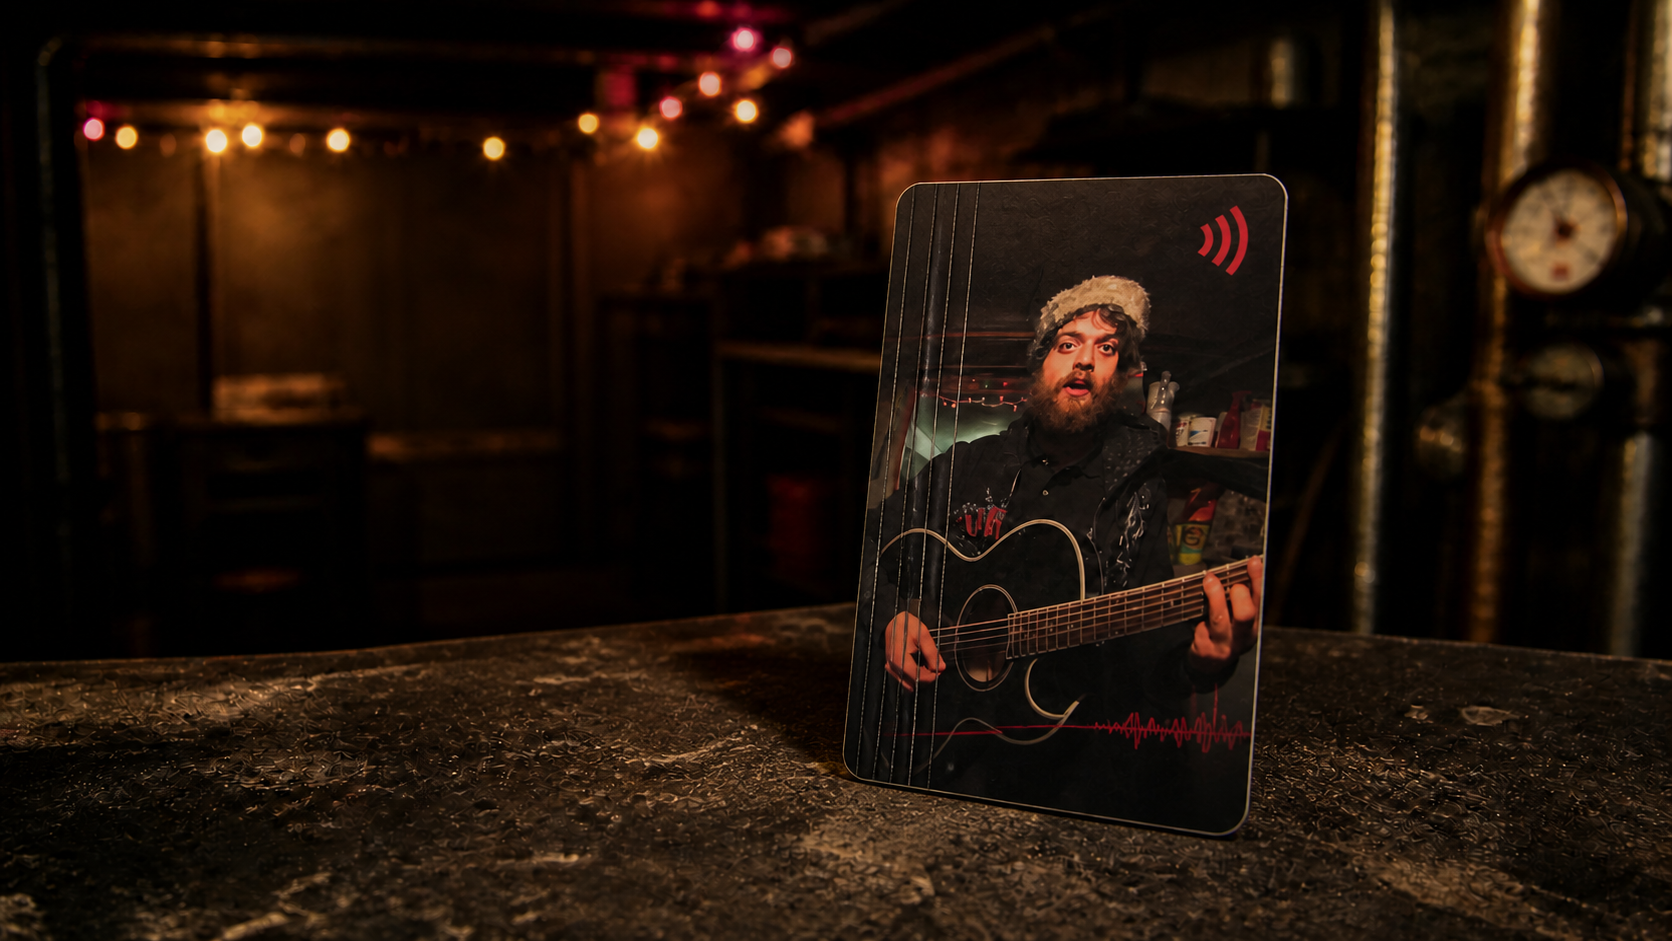
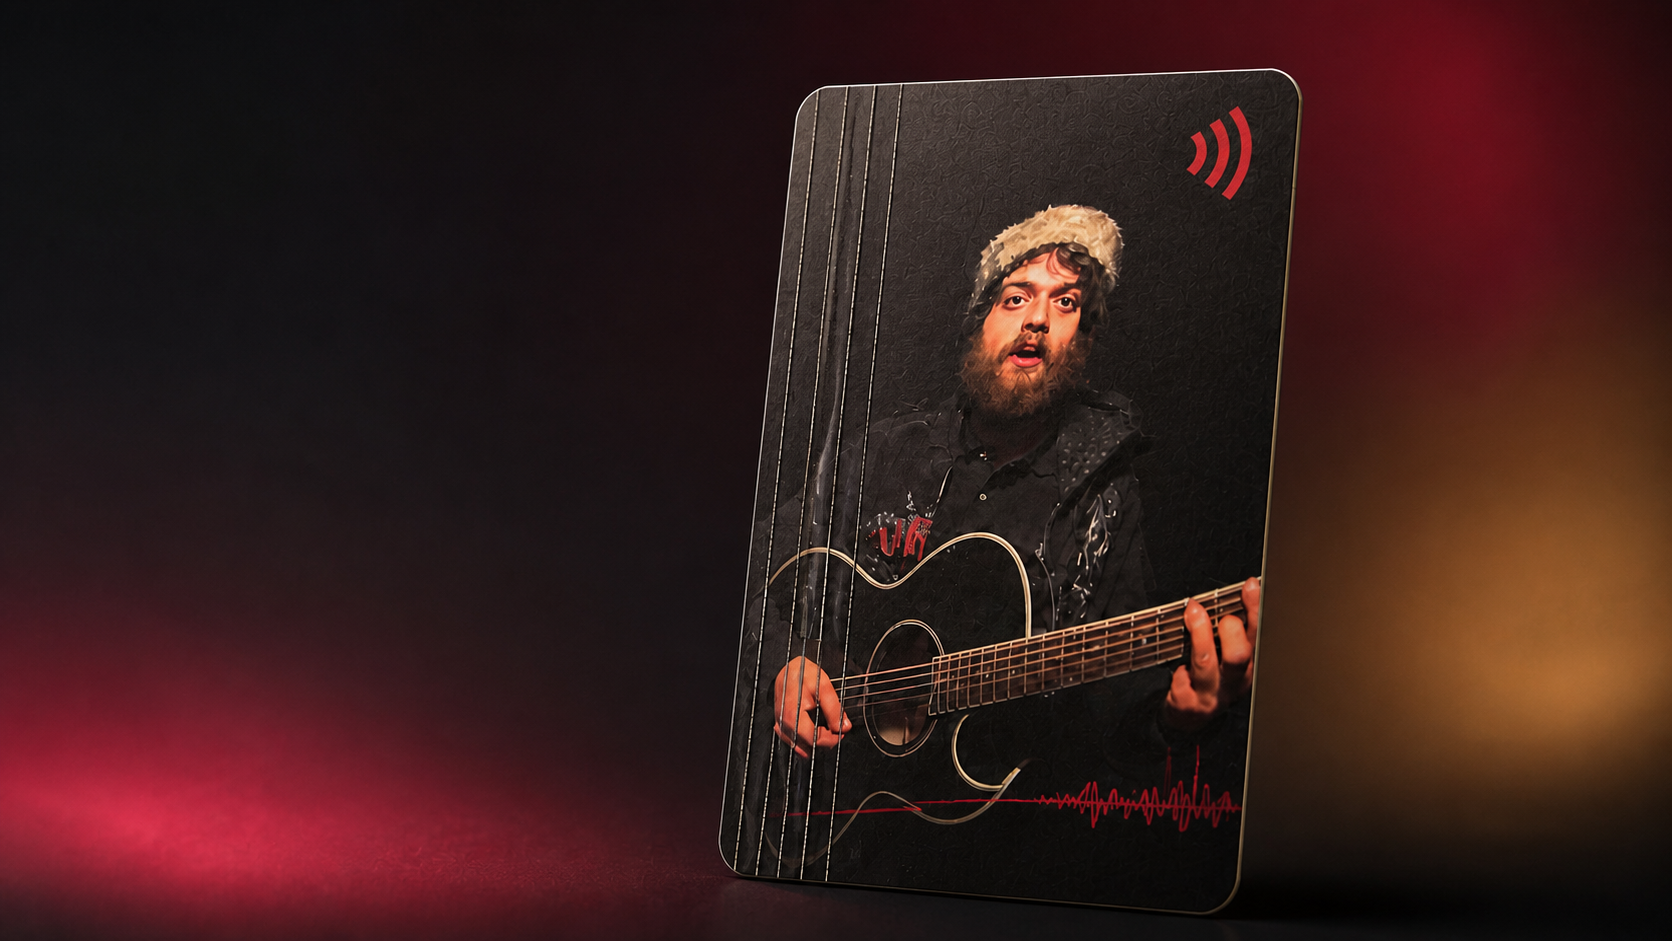
Refine AHOY front door and account entry

diff --git a/index.html b/index.html
@@ -44,6 +44,7 @@
     <link
       href="https://fonts.googleapis.com/css2?family=IBM+Plex+Sans:wght@400;500;600;700&display=swap"
       rel="stylesheet" />
+    <link href="https://fonts.googleapis.com/css2?family=Barlow+Condensed:wght@500;600;700&display=swap" rel="stylesheet" />
     <link href="https://fonts.cdnfonts.com/css/cubano?display=swap"
       rel="stylesheet" />
     <script type="application/ld+json">
@@ -100,6 +101,8 @@
       --pointer-x: 50%;
       --pointer-y: 18%;
       --pointer-glow: 0;
+      --spot-x: 72%;
+      --spot-y: 18%;
       --bg: #010710;
       --bg-deep: #00040a;
       --panel: rgba(1, 6, 16, 0.88);
@@ -161,8 +164,9 @@
       width: 1100px;
       height: 700px;
       pointer-events: none;
-      background: radial-gradient(ellipse at var(--pointer-x) var(--pointer-y), rgba(255, 0, 96, calc(0.09 + var(--pointer-glow) * 0.045)) 0%, rgba(200, 0, 80, 0.04) 42%, transparent 68%);
+      background: radial-gradient(ellipse at var(--pointer-x) var(--pointer-y), rgba(33, 155, 184, calc(0.12 + var(--pointer-glow) * 0.045)) 0%, rgba(19, 87, 126, 0.05) 42%, transparent 68%), radial-gradient(ellipse at var(--spot-x) var(--spot-y), rgba(211, 73, 91, 0.08) 0%, transparent 40%);
       animation: orb-drift 14s ease-in-out infinite alternate, orb-breathe 6s ease-in-out infinite;
+      transition: background 3.8s ease;
       z-index: 0;
     }
 
@@ -916,6 +920,22 @@
       flex-wrap: wrap;
     }
 
+    .account-section {
+      margin-top: 28px;
+      padding: clamp(28px, 5vw, 56px);
+      text-align: center;
+      border: 1px solid rgba(91, 190, 199, 0.28);
+      border-radius: 28px;
+      background: linear-gradient(135deg, rgba(13, 48, 68, 0.82), rgba(4, 15, 25, 0.92));
+      box-shadow: 0 24px 60px rgba(0, 0, 0, 0.35);
+    }
+
+    .account-section .eyebrow { color: #78d0d2; }
+    .account-section .eyebrow::before { background: #32aeb7; box-shadow: 0 0 8px rgba(50, 174, 183, 0.75); }
+    .account-section h2 { margin: 0 0 12px; font-family: "Barlow Condensed", sans-serif; font-size: clamp(2.5rem, 6vw, 5.4rem); line-height: 0.9; letter-spacing: -0.04em; text-transform: uppercase; }
+    .account-section p { max-width: 620px; margin: 0 auto; color: rgba(255,255,255,.7); line-height: 1.6; }
+    .account-actions { display: flex; justify-content: center; flex-wrap: wrap; gap: 12px; margin-top: 26px; }
+
     .aside-marquee-track img {
       height: 90px;
       width: auto;
@@ -1466,17 +1486,19 @@
       .ecosystem-nav-links a { color:inherit; text-decoration:none; }
       .ecosystem-nav-links a:hover { color:#fff; }
       .ecosystem-account { border:1px solid rgba(255,255,255,.28); border-radius:999px; color:#fff; padding:10px 16px; text-decoration:none; font-size:.76rem; letter-spacing:.08em; text-transform:uppercase; }
+      .ecosystem-top-action { border-radius:999px; padding:10px 15px; color:#06131d !important; background:#fff; font-weight:600; letter-spacing:.08em; }
+      .ecosystem-top-action.secondary { color:#fff !important; background:rgba(255,255,255,.08); border:1px solid rgba(255,255,255,.22); }
       .ecosystem-hero { display:grid; grid-template-columns:minmax(0,1.15fr) minmax(320px,.85fr); gap:clamp(40px,8vw,120px); align-items:end; padding:clamp(100px,16vh,180px) 0 90px; }
-      .seasonal-hero { position:relative; overflow:hidden; margin-top:clamp(70px,12vh,130px); padding:clamp(38px,6vw,78px); border:1px solid rgba(255,120,180,.34); border-radius:28px; background:radial-gradient(circle at 80% 10%, rgba(255,92,148,.25), transparent 42%), linear-gradient(135deg, rgba(255,255,255,.1), rgba(255,255,255,.025)); box-shadow:0 28px 90px rgba(0,0,0,.32); }
+      .seasonal-hero { position:relative; overflow:hidden; margin-top:clamp(70px,12vh,130px); padding:clamp(38px,6vw,78px); border:1px solid rgba(91,190,199,.3); border-radius:28px; background:radial-gradient(circle at 80% 10%, rgba(36,132,155,.24), transparent 42%), linear-gradient(135deg, rgba(13,48,68,.92), rgba(6,19,31,.96)); box-shadow:0 28px 90px rgba(0,0,0,.32); }
       .seasonal-hero::after { display:none; }
-      .seasonal-kicker { position:relative; z-index:1; color:#ff78b4; font-size:.76rem; letter-spacing:.18em; text-transform:uppercase; }
-      .seasonal-hero h2 { position:relative; z-index:1; max-width:850px; margin:18px 0 12px; color:#fff; font-family:Cubano,Impact,sans-serif; font-size:clamp(3rem,8vw,7.6rem); line-height:.86; letter-spacing:-.07em; }
+      .seasonal-kicker { position:relative; z-index:1; color:#78d0d2; font-size:.76rem; letter-spacing:.18em; text-transform:uppercase; }
+      .seasonal-hero h2 { position:relative; z-index:1; max-width:850px; margin:18px 0 12px; color:#fff; font-family:'Barlow Condensed',sans-serif; font-weight:700; font-size:clamp(3.4rem,8vw,8rem); line-height:.82; letter-spacing:-.012em; text-transform:uppercase; }
       .seasonal-hero p { position:relative; z-index:1; max-width:590px; margin:0; color:rgba(255,255,255,.72); font-size:clamp(1.1rem,2vw,1.45rem); line-height:1.45; }
-      .launch-app { position:relative; overflow:hidden; display:flex; align-items:flex-end; justify-content:space-between; gap:32px; min-height:clamp(260px,34vw,410px); margin-top:clamp(34px,6vw,72px); padding:clamp(28px,5vw,62px); border:1px solid rgba(255,120,180,.42); border-radius:28px; background:radial-gradient(circle at 78% 10%,rgba(255,130,190,.32),transparent 38%),linear-gradient(135deg,#141c2b 0%,#281929 48%,#40142d 100%); box-shadow:0 28px 90px rgba(0,0,0,.38); }
+      .launch-app { position:relative; overflow:hidden; display:flex; align-items:flex-end; justify-content:space-between; gap:32px; min-height:clamp(260px,34vw,410px); margin-top:clamp(34px,6vw,72px); padding:clamp(28px,5vw,62px); border:1px solid rgba(91,190,199,.35); border-radius:28px; background:radial-gradient(circle at 78% 10%,rgba(34,135,158,.3),transparent 38%),linear-gradient(135deg,#102b3a 0%,#102332 48%,#1f3441 100%); box-shadow:0 28px 90px rgba(0,0,0,.38); }
       .launch-app::before { display:none; }
       .launch-app-copy,.launch-app-action { position:relative; z-index:1; }
-      .launch-app-kicker { margin-bottom:16px; color:#ff78b4; font-size:.78rem; letter-spacing:.18em; text-transform:uppercase; }
-      .launch-app h2 { max-width:8ch; margin:0; color:#fff; font-family:Cubano,Impact,sans-serif; font-size:clamp(3.6rem,8vw,8.6rem); line-height:.82; letter-spacing:-.08em; }
+      .launch-app-kicker { margin-bottom:16px; color:#78d0d2; font-size:.78rem; letter-spacing:.18em; text-transform:uppercase; }
+      .launch-app h2 { max-width:8ch; margin:0; color:#fff; font-family:'Barlow Condensed',sans-serif; font-weight:700; font-size:clamp(4rem,9vw,9rem); line-height:.78; letter-spacing:-.012em; text-transform:uppercase; }
       .launch-app p { max-width:34ch; margin:22px 0 0; color:rgba(255,255,255,.7); font-size:clamp(1rem,1.5vw,1.2rem); line-height:1.5; }
       .launch-app-button { display:inline-flex; align-items:center; justify-content:center; min-height:54px; padding:0 24px; border:1px solid rgba(255,255,255,.35); border-radius:999px; background:#fff; color:#080910; text-decoration:none; font-weight:700; box-shadow:0 12px 30px rgba(0,0,0,.2); transition:transform .2s ease,box-shadow .2s ease; }
       .launch-app-button:hover { transform:translateY(-2px); box-shadow:0 16px 36px rgba(0,0,0,.3); }
@@ -1495,7 +1517,7 @@
       .ecosystem-surface span { display:block; margin-top:4px; color:rgba(255,255,255,.52); font-size:.82rem; }
       .ecosystem-icon { display:grid; place-items:center; width:38px; height:38px; border:1px solid rgba(255,255,255,.24); border-radius:12px; color:#ff78b4; font-weight:700; }
       .ecosystem-section { border-top:1px solid rgba(255,255,255,.14); padding:34px 0 0; }
-      .ecosystem-section h2 { margin:0 0 18px; font-family:Cubano,Impact,sans-serif; font-size:clamp(1.7rem,3vw,2.7rem); letter-spacing:-.04em; }
+      .ecosystem-section h2 { margin:0 0 18px; font-family:'Barlow Condensed',sans-serif; font-weight:700; font-size:clamp(1.9rem,3vw,3rem); letter-spacing:-.005em; text-transform:uppercase; }
       .ecosystem-section > p { max-width:630px; color:rgba(255,255,255,.62); line-height:1.6; }
       .cards-section { margin-top:clamp(70px,10vw,130px); }
       .cards-feature { display:grid; grid-template-columns:minmax(0,.82fr) minmax(0,1.18fr); gap:clamp(28px,6vw,84px); align-items:center; margin-top:30px; padding:clamp(20px,4vw,42px); border:1px solid rgba(255,120,180,.24); border-radius:26px; background:linear-gradient(90deg,rgba(4,8,18,.98) 0%,rgba(4,8,18,.88) 42%,rgba(4,8,18,.32) 100%),url('images/ahoy-nfc-cards-concept.png') center/cover no-repeat; overflow:hidden; }
@@ -1534,7 +1556,7 @@
       <div class="ecosystem-shell">
         <nav class="ecosystem-nav" aria-label="AHOY">
           <a class="ecosystem-mark" href="/">AHOY</a>
-          <div class="ecosystem-nav-links"><a href="#ecosystem">The ecosystem</a><a href="#physical-cards">Cards</a><a href="https://app.ahoy.ooo">Open Discover</a></div>
+          <div class="ecosystem-nav-links"><a href="#ecosystem">The ecosystem</a><a href="#physical-cards">Cards</a><a class="ecosystem-top-action" href="https://app.ahoy.ooo">Open AHOY</a><a class="ecosystem-top-action secondary" href="/download">Download</a></div>
           <a class="ecosystem-account" href="https://app.ahoy.ooo">Sign in</a>
         </nav>
         <main>
@@ -2151,6 +2173,16 @@
           </div>
         </section>
 
+        <section class="account-section fade-up" id="account" aria-labelledby="account-title">
+          <div class="eyebrow">One AHOY account</div>
+          <h2 id="account-title">Make yourself at home.</h2>
+          <p>Create your AHOY account once. Your sign-in, saved music, library, and account settings will follow you between ahoy.ooo and app.ahoy.ooo.</p>
+          <div class="account-actions">
+            <a class="button primary" href="/account.html">CREATE AN ACCOUNT</a>
+            <a class="button secondary" href="https://app.ahoy.ooo">SIGN IN</a>
+          </div>
+        </section>
+
         <footer>
           <div>Made with care in New Haven by <a href="https://littlemarket.org"
               target="_blank" rel="noopener noreferrer">Little Market</a></div>
@@ -2167,6 +2199,12 @@
       <script>
     const root = document.documentElement;
     let pointerPulseTimer;
+    const moveBreathingSpots = () => {
+      root.style.setProperty('--spot-x', `${18 + Math.random() * 64}%`);
+      root.style.setProperty('--spot-y', `${8 + Math.random() * 78}%`);
+    };
+    moveBreathingSpots();
+    window.setInterval(moveBreathingSpots, 4200);
     window.addEventListener('pointermove', (event) => {
       const x = (event.clientX / window.innerWidth) * 100;
       const y = (event.clientY / window.innerHeight) * 100;

diff --git a/account.html b/account.html
@@ -1,0 +1,40 @@
+<!doctype html>
+<html lang="en">
+<head>
+  <meta charset="utf-8">
+  <meta name="viewport" content="width=device-width, initial-scale=1">
+  <title>Join AHOY</title>
+  <meta name="description" content="Create or manage your universal AHOY account.">
+  <link rel="preconnect" href="https://fonts.googleapis.com">
+  <link href="https://fonts.googleapis.com/css2?family=Barlow+Condensed:wght@500;600;700&family=IBM+Plex+Sans:wght@400;500;600;700&display=swap" rel="stylesheet">
+  <link href="https://fonts.cdnfonts.com/css/cubano?display=swap" rel="stylesheet">
+  <style>
+    :root { color-scheme: dark; font-family:"IBM Plex Sans",sans-serif; color:#fff; background:#04121d; }
+    * { box-sizing:border-box; }
+    body { min-height:100vh; margin:0; display:grid; place-items:center; padding:24px; background:radial-gradient(circle at 70% 15%,rgba(43,151,171,.2),transparent 36%),linear-gradient(145deg,#061927,#020910 70%); }
+    main { width:min(560px,100%); padding:clamp(28px,7vw,64px); border:1px solid rgba(120,208,210,.3); border-radius:28px; background:rgba(5,21,32,.88); box-shadow:0 30px 90px rgba(0,0,0,.45); text-align:center; }
+    .mark { color:#fff; font-family:Cubano,"Arial Black",sans-serif; font-size:1.45rem; letter-spacing:.08em; }
+    .eyebrow { margin-top:48px; color:#78d0d2; font-size:.76rem; letter-spacing:.18em; text-transform:uppercase; }
+    h1 { margin:14px 0 14px; font-family:"Barlow Condensed",sans-serif; font-size:clamp(3.6rem,12vw,6.5rem); line-height:.8; text-transform:uppercase; letter-spacing:-.04em; }
+    p { margin:0 auto; max-width:38ch; color:rgba(255,255,255,.68); line-height:1.6; }
+    .actions { display:grid; gap:12px; margin-top:30px; }
+    a { display:flex; min-height:52px; align-items:center; justify-content:center; border-radius:999px; text-decoration:none; font-weight:700; }
+    .primary { background:#fff; color:#06121b; }
+    .secondary { border:1px solid rgba(255,255,255,.25); color:#fff; }
+    .back { display:inline-block; margin-top:28px; color:rgba(255,255,255,.5); font-size:.86rem; }
+  </style>
+</head>
+<body>
+  <main>
+    <div class="mark">AHOY</div>
+    <div class="eyebrow">Your universal account</div>
+    <h1>Come aboard.</h1>
+    <p>One account for AHOY. Create your account or sign in once, then use the same identity across ahoy.ooo and AHOY Indie Media.</p>
+    <div class="actions">
+      <a class="primary" href="https://app.ahoy.ooo">Continue to AHOY</a>
+      <a class="secondary" href="https://app.ahoy.ooo">I already have an account</a>
+    </div>
+    <a class="back" href="/">Back to ahoy.ooo</a>
+  </main>
+</body>
+</html>
